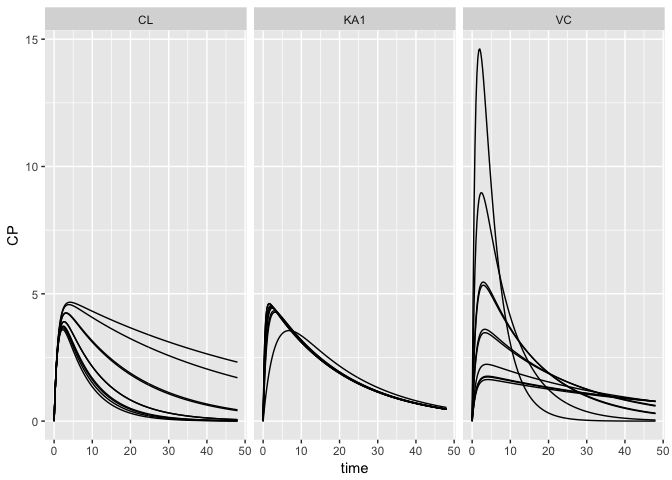
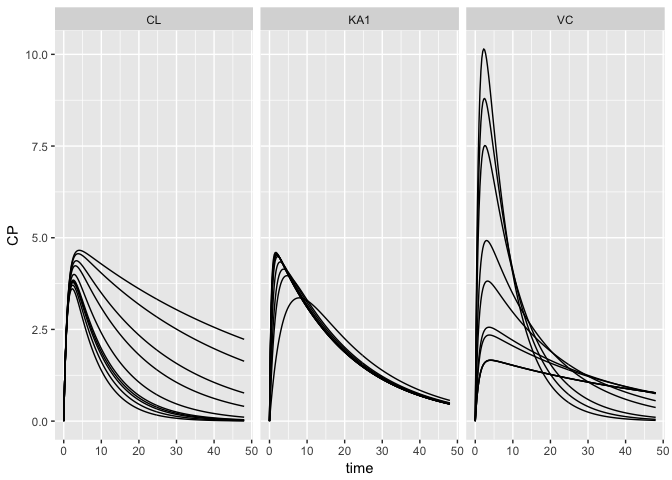
tweak interface

diff --git a/README.md b/README.md
@@ -47,16 +47,16 @@ out
     . # A tibble: 1,930 x 8
     .       ID  time    CP    CL    VC   KA1 name         value
     .    <dbl> <dbl> <dbl> <dbl> <dbl> <dbl> <chr>        <dbl>
-    .  1    1. 0.     0.    1.17  20.5  1.42 multivariate    1.
-    .  2    1. 0.250  1.45  1.17  20.5  1.42 multivariate    1.
-    .  3    1. 0.500  2.44  1.17  20.5  1.42 multivariate    1.
-    .  4    1. 0.750  3.12  1.17  20.5  1.42 multivariate    1.
-    .  5    1. 1.00   3.57  1.17  20.5  1.42 multivariate    1.
-    .  6    1. 1.25   3.87  1.17  20.5  1.42 multivariate    1.
-    .  7    1. 1.50   4.06  1.17  20.5  1.42 multivariate    1.
-    .  8    1. 1.75   4.18  1.17  20.5  1.42 multivariate    1.
-    .  9    1. 2.00   4.24  1.17  20.5  1.42 multivariate    1.
-    . 10    1. 2.25   4.26  1.17  20.5  1.42 multivariate    1.
+    .  1    1. 0.    0.     1.60  45.1  1.15 multivariate    1.
+    .  2    1. 0.250 0.553  1.60  45.1  1.15 multivariate    1.
+    .  3    1. 0.500 0.963  1.60  45.1  1.15 multivariate    1.
+    .  4    1. 0.750 1.26   1.60  45.1  1.15 multivariate    1.
+    .  5    1. 1.00  1.49   1.60  45.1  1.15 multivariate    1.
+    .  6    1. 1.25  1.65   1.60  45.1  1.15 multivariate    1.
+    .  7    1. 1.50  1.76   1.60  45.1  1.15 multivariate    1.
+    .  8    1. 1.75  1.85   1.60  45.1  1.15 multivariate    1.
+    .  9    1. 2.00  1.90   1.60  45.1  1.15 multivariate    1.
+    . 10    1. 2.25  1.94   1.60  45.1  1.15 multivariate    1.
     . # ... with 1,920 more rows
 
 ``` r
@@ -79,16 +79,16 @@ out
     . # A tibble: 5,790 x 5
     .       ID  time    CP name  value
     .    <dbl> <dbl> <dbl> <chr> <dbl>
-    .  1    1. 0.     0.   CL     2.94
-    .  2    1. 0.250  1.09 CL     2.94
-    .  3    1. 0.500  1.89 CL     2.94
-    .  4    1. 0.750  2.48 CL     2.94
-    .  5    1. 1.00   2.90 CL     2.94
-    .  6    1. 1.25   3.20 CL     2.94
-    .  7    1. 1.50   3.39 CL     2.94
-    .  8    1. 1.75   3.51 CL     2.94
-    .  9    1. 2.00   3.58 CL     2.94
-    . 10    1. 2.25   3.59 CL     2.94
+    .  1    1. 0.     0.   CL     2.52
+    .  2    1. 0.250  1.09 CL     2.52
+    .  3    1. 0.500  1.90 CL     2.52
+    .  4    1. 0.750  2.50 CL     2.52
+    .  5    1. 1.00   2.94 CL     2.52
+    .  6    1. 1.25   3.25 CL     2.52
+    .  7    1. 1.50   3.46 CL     2.52
+    .  8    1. 1.75   3.59 CL     2.52
+    .  9    1. 2.00   3.67 CL     2.52
+    . 10    1. 2.25   3.71 CL     2.52
     . # ... with 5,780 more rows
 
 ``` r
@@ -111,16 +111,16 @@ mod %>%
     . # A tibble: 1,930 x 7
     .       ID  time    CP    CL    VC name         value
     .    <dbl> <dbl> <dbl> <dbl> <dbl> <chr>        <dbl>
-    .  1    1. 0.     0.    1.64  20.5 multivariate    1.
-    .  2    1. 0.250  1.07  1.64  20.5 multivariate    1.
-    .  3    1. 0.500  1.87  1.64  20.5 multivariate    1.
-    .  4    1. 0.750  2.48  1.64  20.5 multivariate    1.
-    .  5    1. 1.00   2.94  1.64  20.5 multivariate    1.
-    .  6    1. 1.25   3.27  1.64  20.5 multivariate    1.
-    .  7    1. 1.50   3.51  1.64  20.5 multivariate    1.
-    .  8    1. 1.75   3.68  1.64  20.5 multivariate    1.
-    .  9    1. 2.00   3.79  1.64  20.5 multivariate    1.
-    . 10    1. 2.25   3.86  1.64  20.5 multivariate    1.
+    .  1    1. 0.    0.     1.16  34.5 multivariate    1.
+    .  2    1. 0.250 0.639  1.16  34.5 multivariate    1.
+    .  3    1. 0.500 1.13   1.16  34.5 multivariate    1.
+    .  4    1. 0.750 1.51   1.16  34.5 multivariate    1.
+    .  5    1. 1.00  1.80   1.16  34.5 multivariate    1.
+    .  6    1. 1.25  2.02   1.16  34.5 multivariate    1.
+    .  7    1. 1.50  2.19   1.16  34.5 multivariate    1.
+    .  8    1. 1.75  2.31   1.16  34.5 multivariate    1.
+    .  9    1. 2.00  2.40   1.16  34.5 multivariate    1.
+    . 10    1. 2.25  2.47   1.16  34.5 multivariate    1.
     . # ... with 1,920 more rows
 
 ### `sens_seq`
@@ -231,16 +231,16 @@ out
     . # A tibble: 19,300 x 7
     .       ID  time    CP    CL    VC name         value
     .    <dbl> <dbl> <dbl> <dbl> <dbl> <chr>        <dbl>
-    .  1    1. 0.    0.     1.77  46.3 multivariate    1.
-    .  2    1. 0.250 0.475  1.77  46.3 multivariate    1.
-    .  3    1. 0.500 0.841  1.77  46.3 multivariate    1.
-    .  4    1. 0.750 1.12   1.77  46.3 multivariate    1.
-    .  5    1. 1.00  1.34   1.77  46.3 multivariate    1.
-    .  6    1. 1.25  1.50   1.77  46.3 multivariate    1.
-    .  7    1. 1.50  1.62   1.77  46.3 multivariate    1.
-    .  8    1. 1.75  1.71   1.77  46.3 multivariate    1.
-    .  9    1. 2.00  1.78   1.77  46.3 multivariate    1.
-    . 10    1. 2.25  1.82   1.77  46.3 multivariate    1.
+    .  1    1. 0.    0.     2.37  46.1 multivariate    1.
+    .  2    1. 0.250 0.477  2.37  46.1 multivariate    1.
+    .  3    1. 0.500 0.842  2.37  46.1 multivariate    1.
+    .  4    1. 0.750 1.12   2.37  46.1 multivariate    1.
+    .  5    1. 1.00  1.33   2.37  46.1 multivariate    1.
+    .  6    1. 1.25  1.49   2.37  46.1 multivariate    1.
+    .  7    1. 1.50  1.61   2.37  46.1 multivariate    1.
+    .  8    1. 1.75  1.69   2.37  46.1 multivariate    1.
+    .  9    1. 2.00  1.76   2.37  46.1 multivariate    1.
+    . 10    1. 2.25  1.80   2.37  46.1 multivariate    1.
     . # ... with 19,290 more rows
 
 ``` r
@@ -250,133 +250,16 @@ distinct(out,ID,CL,VC)
     . # A tibble: 100 x 3
     .       ID    CL    VC
     .    <dbl> <dbl> <dbl>
-    .  1    1.  1.77  46.3
-    .  2    2.  1.54  66.4
-    .  3    3.  3.18  69.1
-    .  4    4.  1.35  68.8
-    .  5    5.  3.03  81.1
-    .  6    6.  1.39  66.5
-    .  7    7.  1.41  19.9
-    .  8    8.  3.16 126. 
-    .  9    9.  1.94  21.9
-    . 10   10.  2.80  15.1
+    .  1    1.  2.37 46.1 
+    .  2    2.  2.95 32.5 
+    .  3    3.  2.84 29.8 
+    .  4    4.  3.22 80.9 
+    .  5    5.  2.99 35.3 
+    .  6    6.  1.89 54.3 
+    .  7    7.  2.48  4.35
+    .  8    8.  1.16 42.1 
+    .  9    9.  2.13 47.9 
+    . 10   10.  3.34 78.9 
     . # ... with 90 more rows
 
-Estimation `stats::optim`
-=========================
-
-Load a data set
----------------
-
-``` r
-data(exTheoph)
-df <- mutate(exTheoph, DV = conc)
-```
-
-Load a model
-------------
-
-``` r
-mod <- mread("pk1cmt", modlib())
-```
-
-Define an objective function
-----------------------------
-
--   This could be anything
-
-``` r
-ofv <- function(dv,pred,par) -1*sum(dnorm(dv,pred,par$sigma,log=TRUE))
-```
-
-Define parameters to estimate
------------------------------
-
-``` r
-library(optimhelp)
-par <- parset(log_par("CL", 0.1),
-              log_par("VC", 1.1),
-              log_par("KA1",1.1),
-              log_par("sigma",1))
-```
-
-Fit
----
-
--   The workflow is the same as when we simulate
--   Get the model ready
--   Define the dta set
--   Pipe to `fit_optim` rather than `mrgsim`
--   Here, just fit `ID==3`
-
-``` r
-fit <- 
-  mod %>% 
-  data_set(df, ID==3) %>%
-  fit_optim(pred="CP",ofv=ofv,par=par)
-```
-
-``` r
-fit$pars
-```
-
-    .   name     value transf tr fx
-    .     CL 0.0395583    log  u   
-    .     VC 0.4858379    log  u   
-    .    KA1 2.4536472    log  u   
-    .  sigma 0.2089564    log  u
-
-Plot
-----
-
-``` r
-library(ggplot2)
-ggplot(data=fit$tab) + 
-  geom_point(aes(time,conc)) +
-  geom_line(aes(time,PRED)) 
-```
-
-![](inst/maintenance/img/README-unnamed-chunk-19-1.png)
-
-With fixed parameter
---------------------
-
-``` r
-library(optimhelp)
-par <- parset(log_par("CL", 0.1),
-              log_par("VC", 1.1),
-              log_par("KA1",1.9,fixed=TRUE),
-              log_par("sigma",1))
-```
-
-Fit
----
-
-``` r
-fitt <- 
-  mod %>% 
-  data_set(df, ID==3) %>%
-  fit_optim(pred="CP",ofv=ofv,par=par)
-```
-
-``` r
-fitt$pars
-```
-
-    .   name      value transf tr fx
-    .     CL 0.04190059    log  u   
-    .     VC 0.45512514    log  u   
-    .    KA1 1.90000000    log  u  *
-    .  sigma 0.35140850    log  u
-
-``` r
-fit$value
-```
-
-    . [1] -1.470963
-
-``` r
-fitt$value
-```
-
-    . [1] 3.732531
+\`
